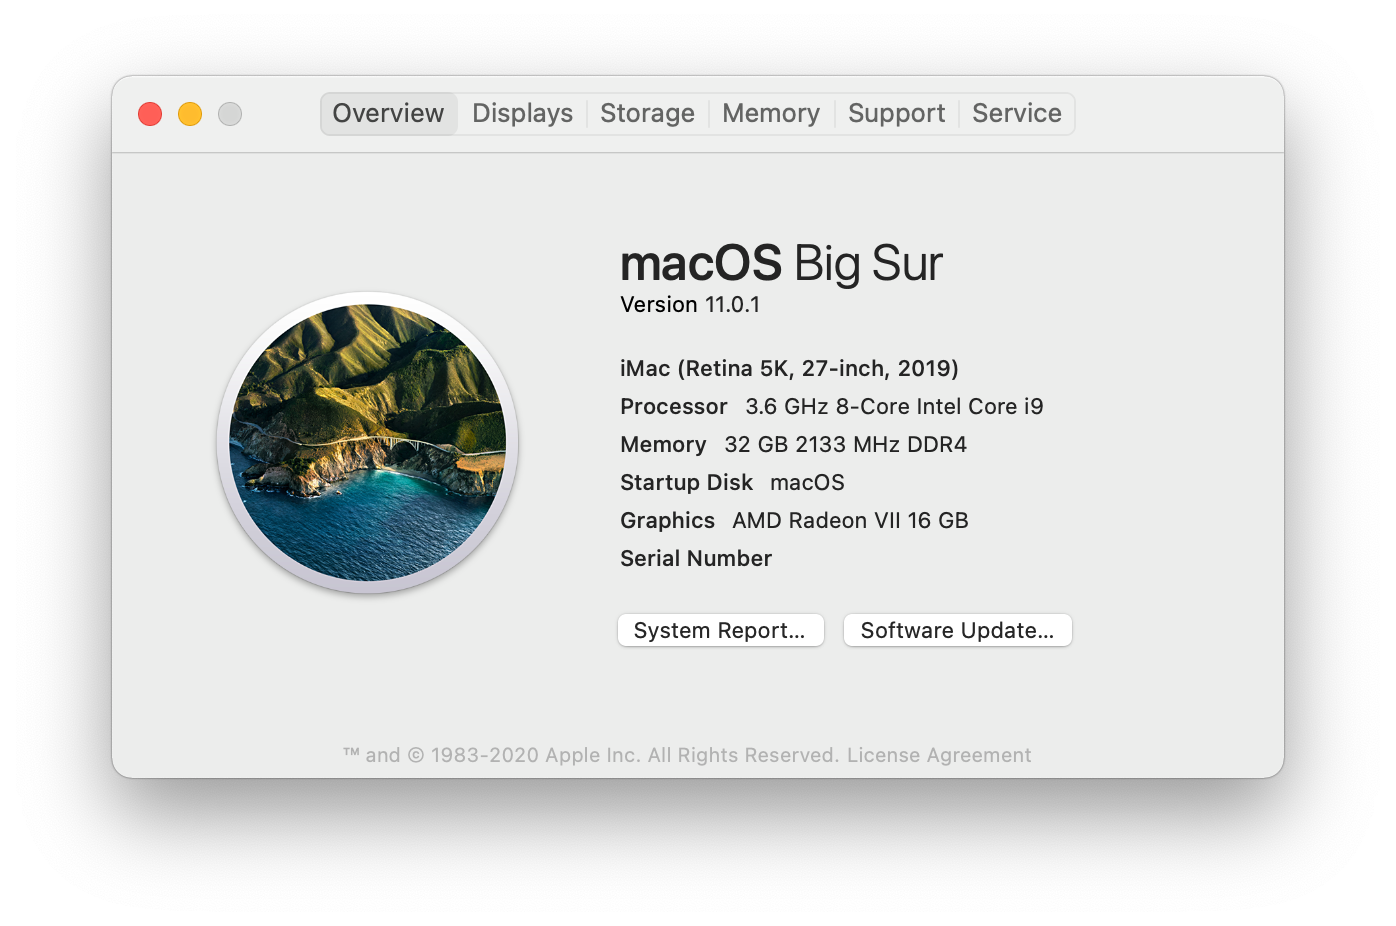
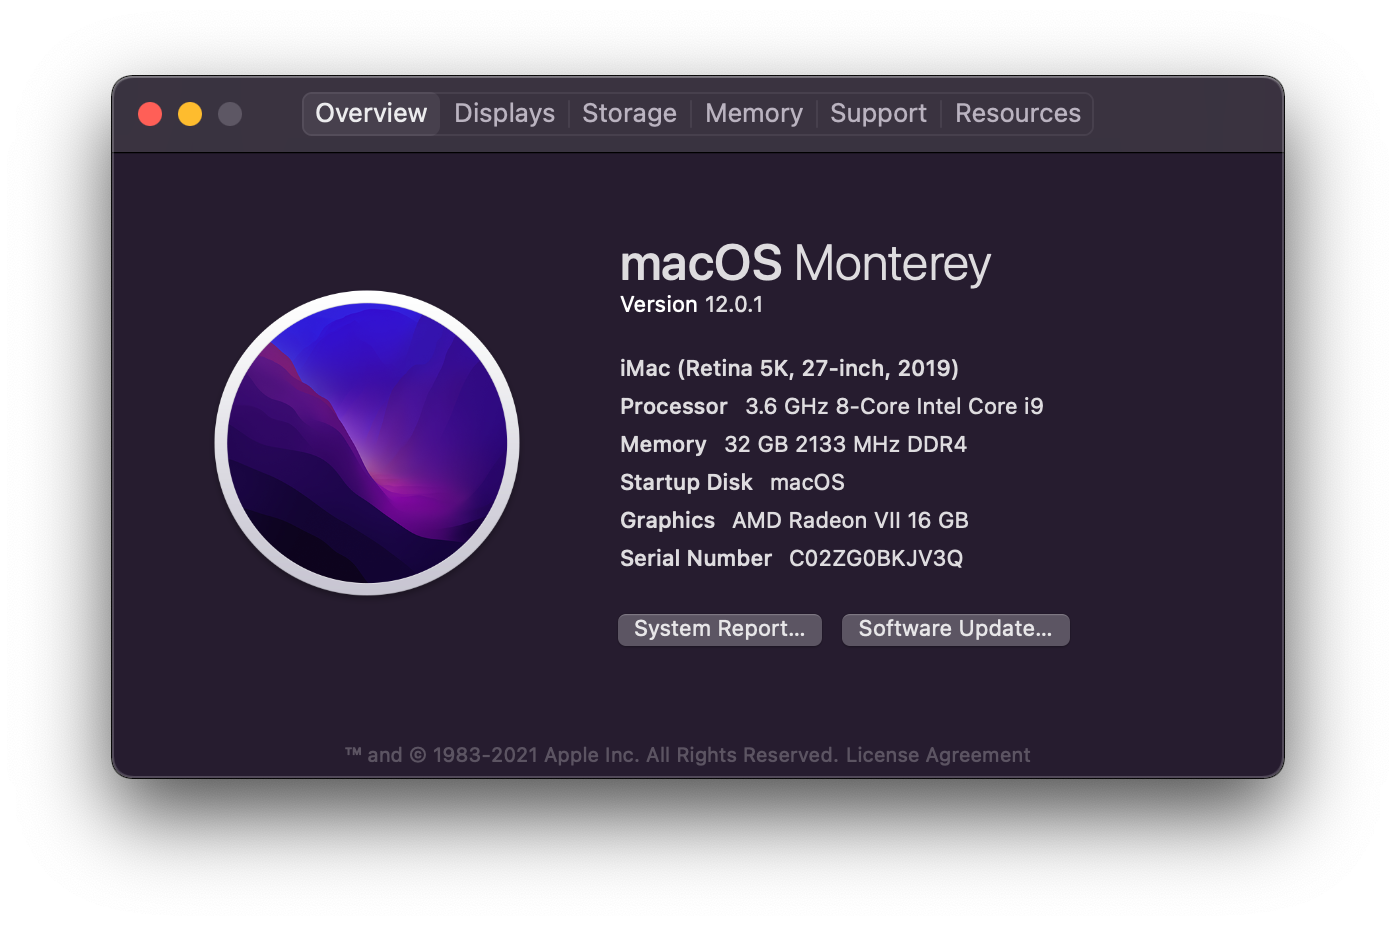
updated to monterey

diff --git a/README.md b/README.md
@@ -1,4 +1,4 @@
-# Gigabyte Designaire Z390 Hackintosh - OpenCore - macOS Big Sur
+# Gigabyte Designaire Z390 Hackintosh - OpenCore - macOS Monterey
 
 ⭐ **Thank you guys for all the stars!** ⭐
 
@@ -31,7 +31,7 @@ Compute (GPU):
 
 ## Features
 
-- macOS Big Sur 11.6 (20G165)
+- macOS Monterey 12.0.1 (21A559) / Big Sur / Catalina
 - OpenCore 0.7.4
 - OpenCanopy (OpenCore's Boot UI)
 - **_[Almost](https://github.com/baughmann/designaire-z390-intel-i9-9900k-opencore#installation)_** plug-n-play if you have [my hardware configuration](https://github.com/baughmann/designaire-z390-intel-i9-9900k-opencore#primary-system)
